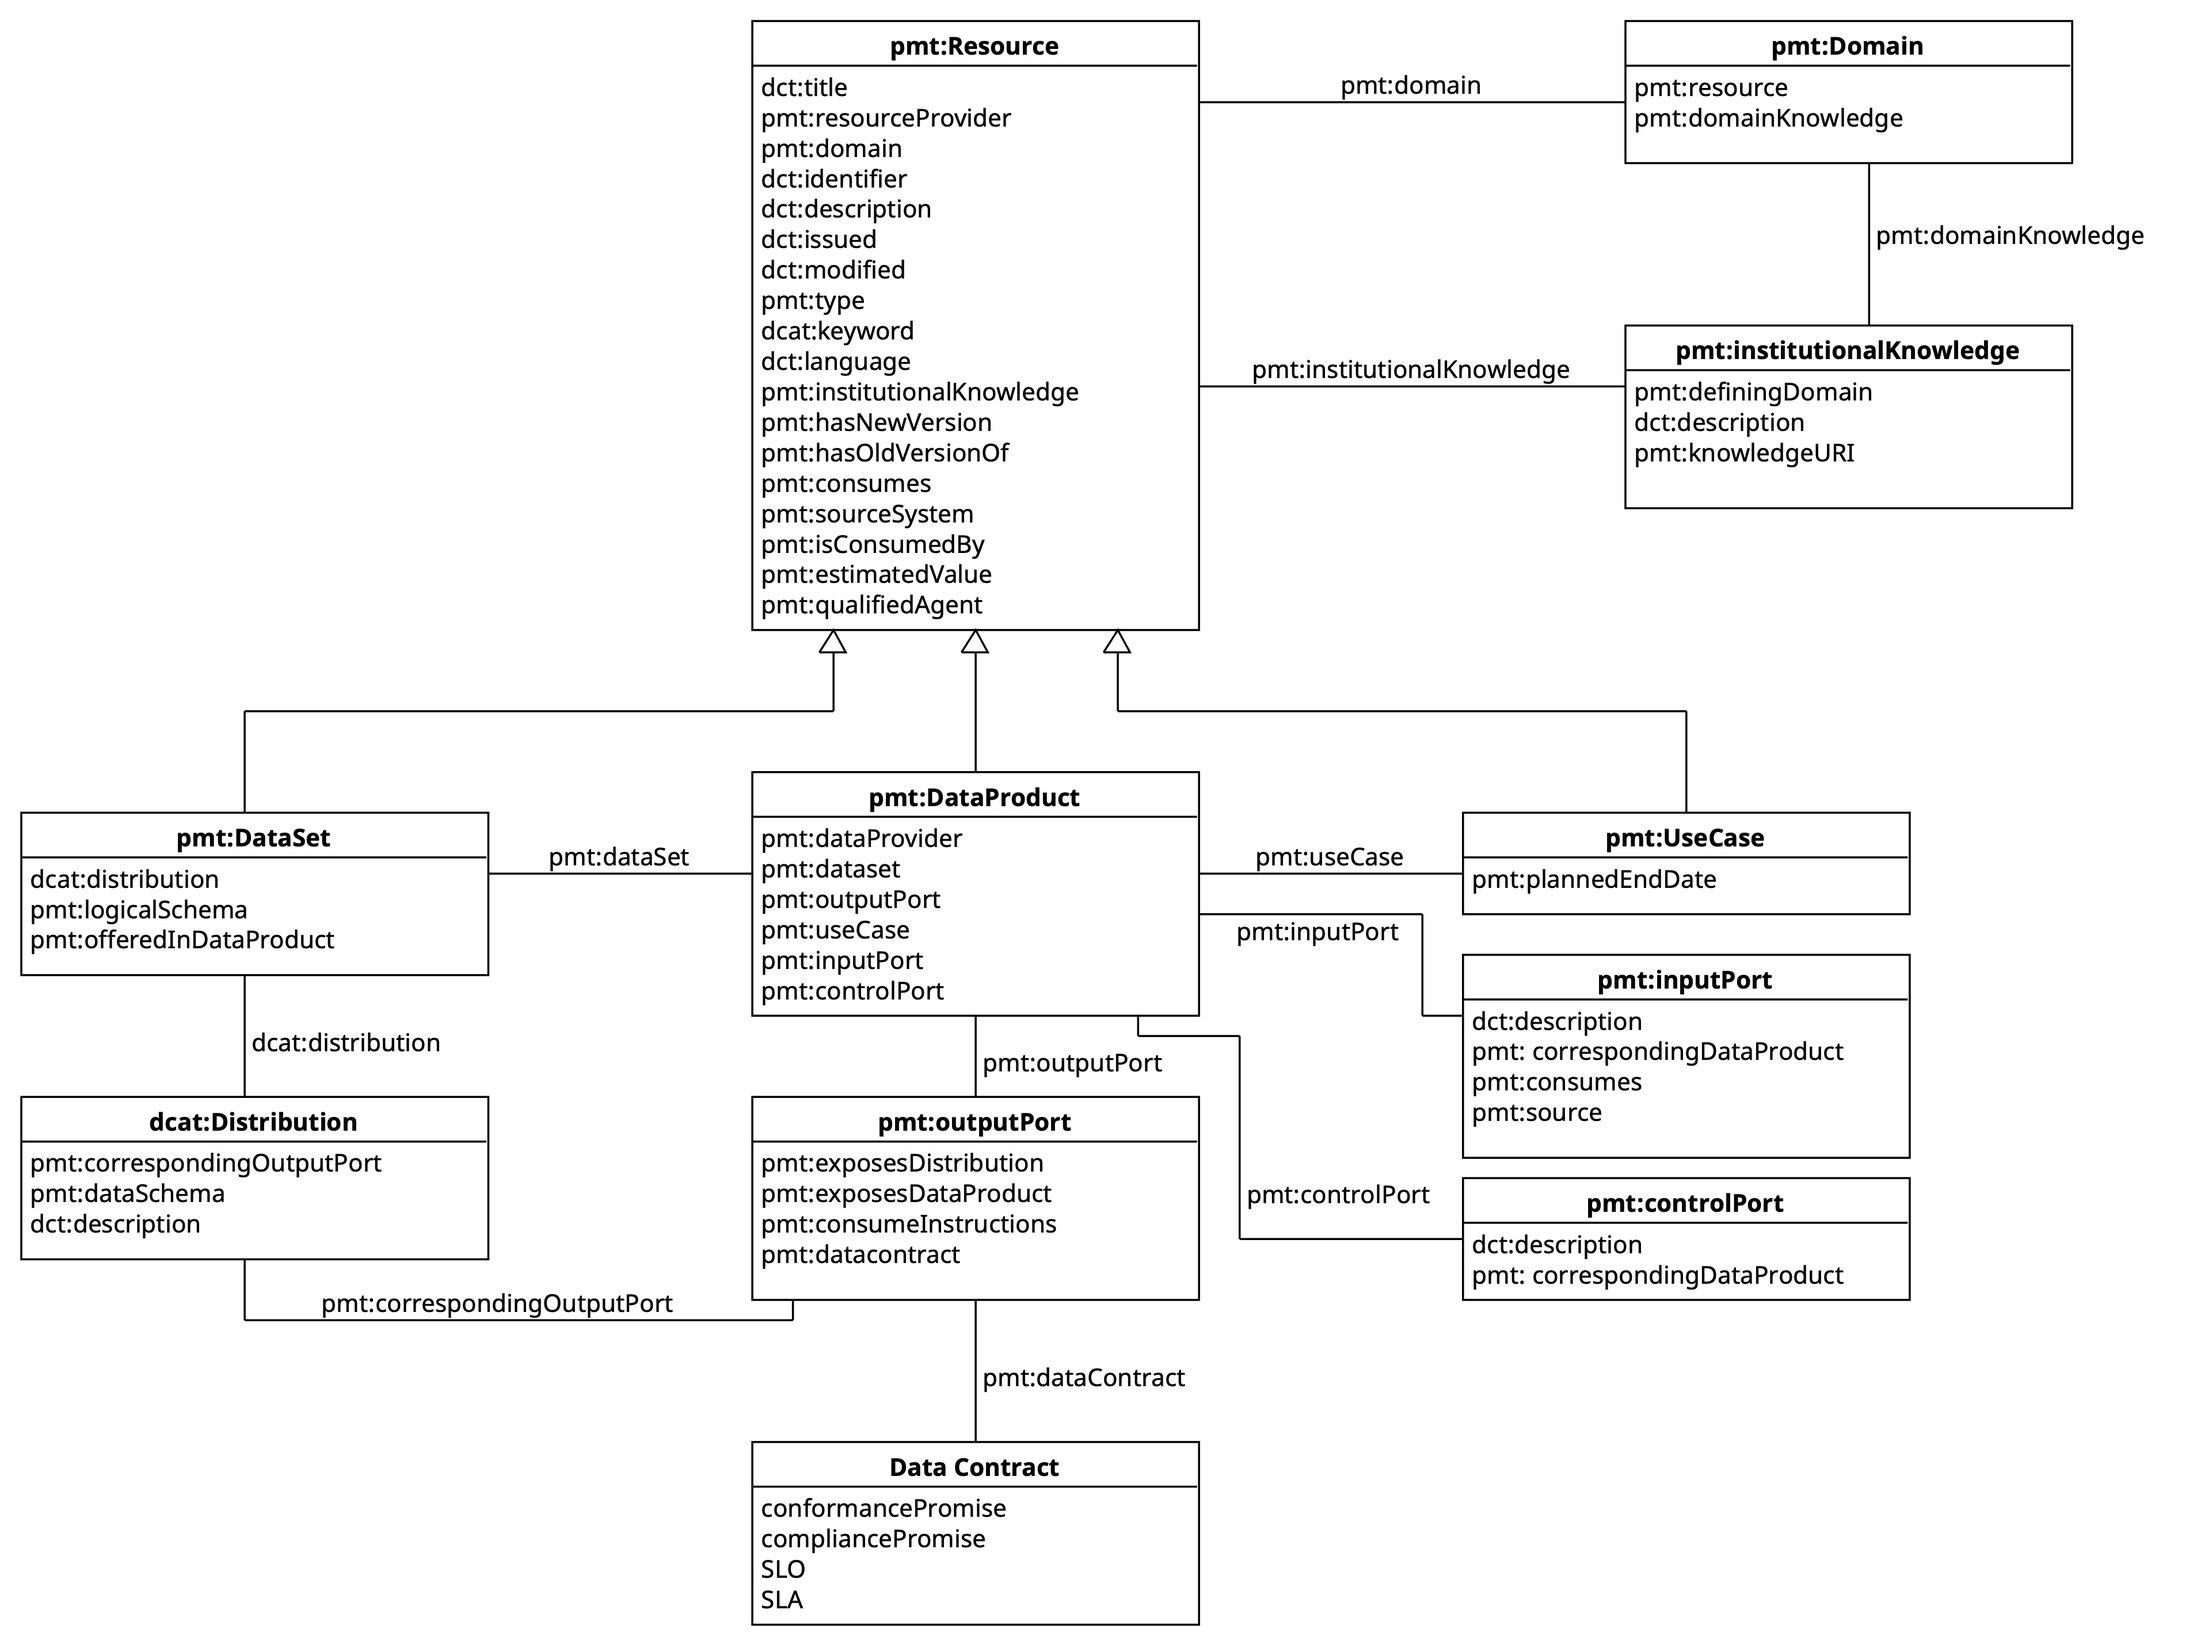
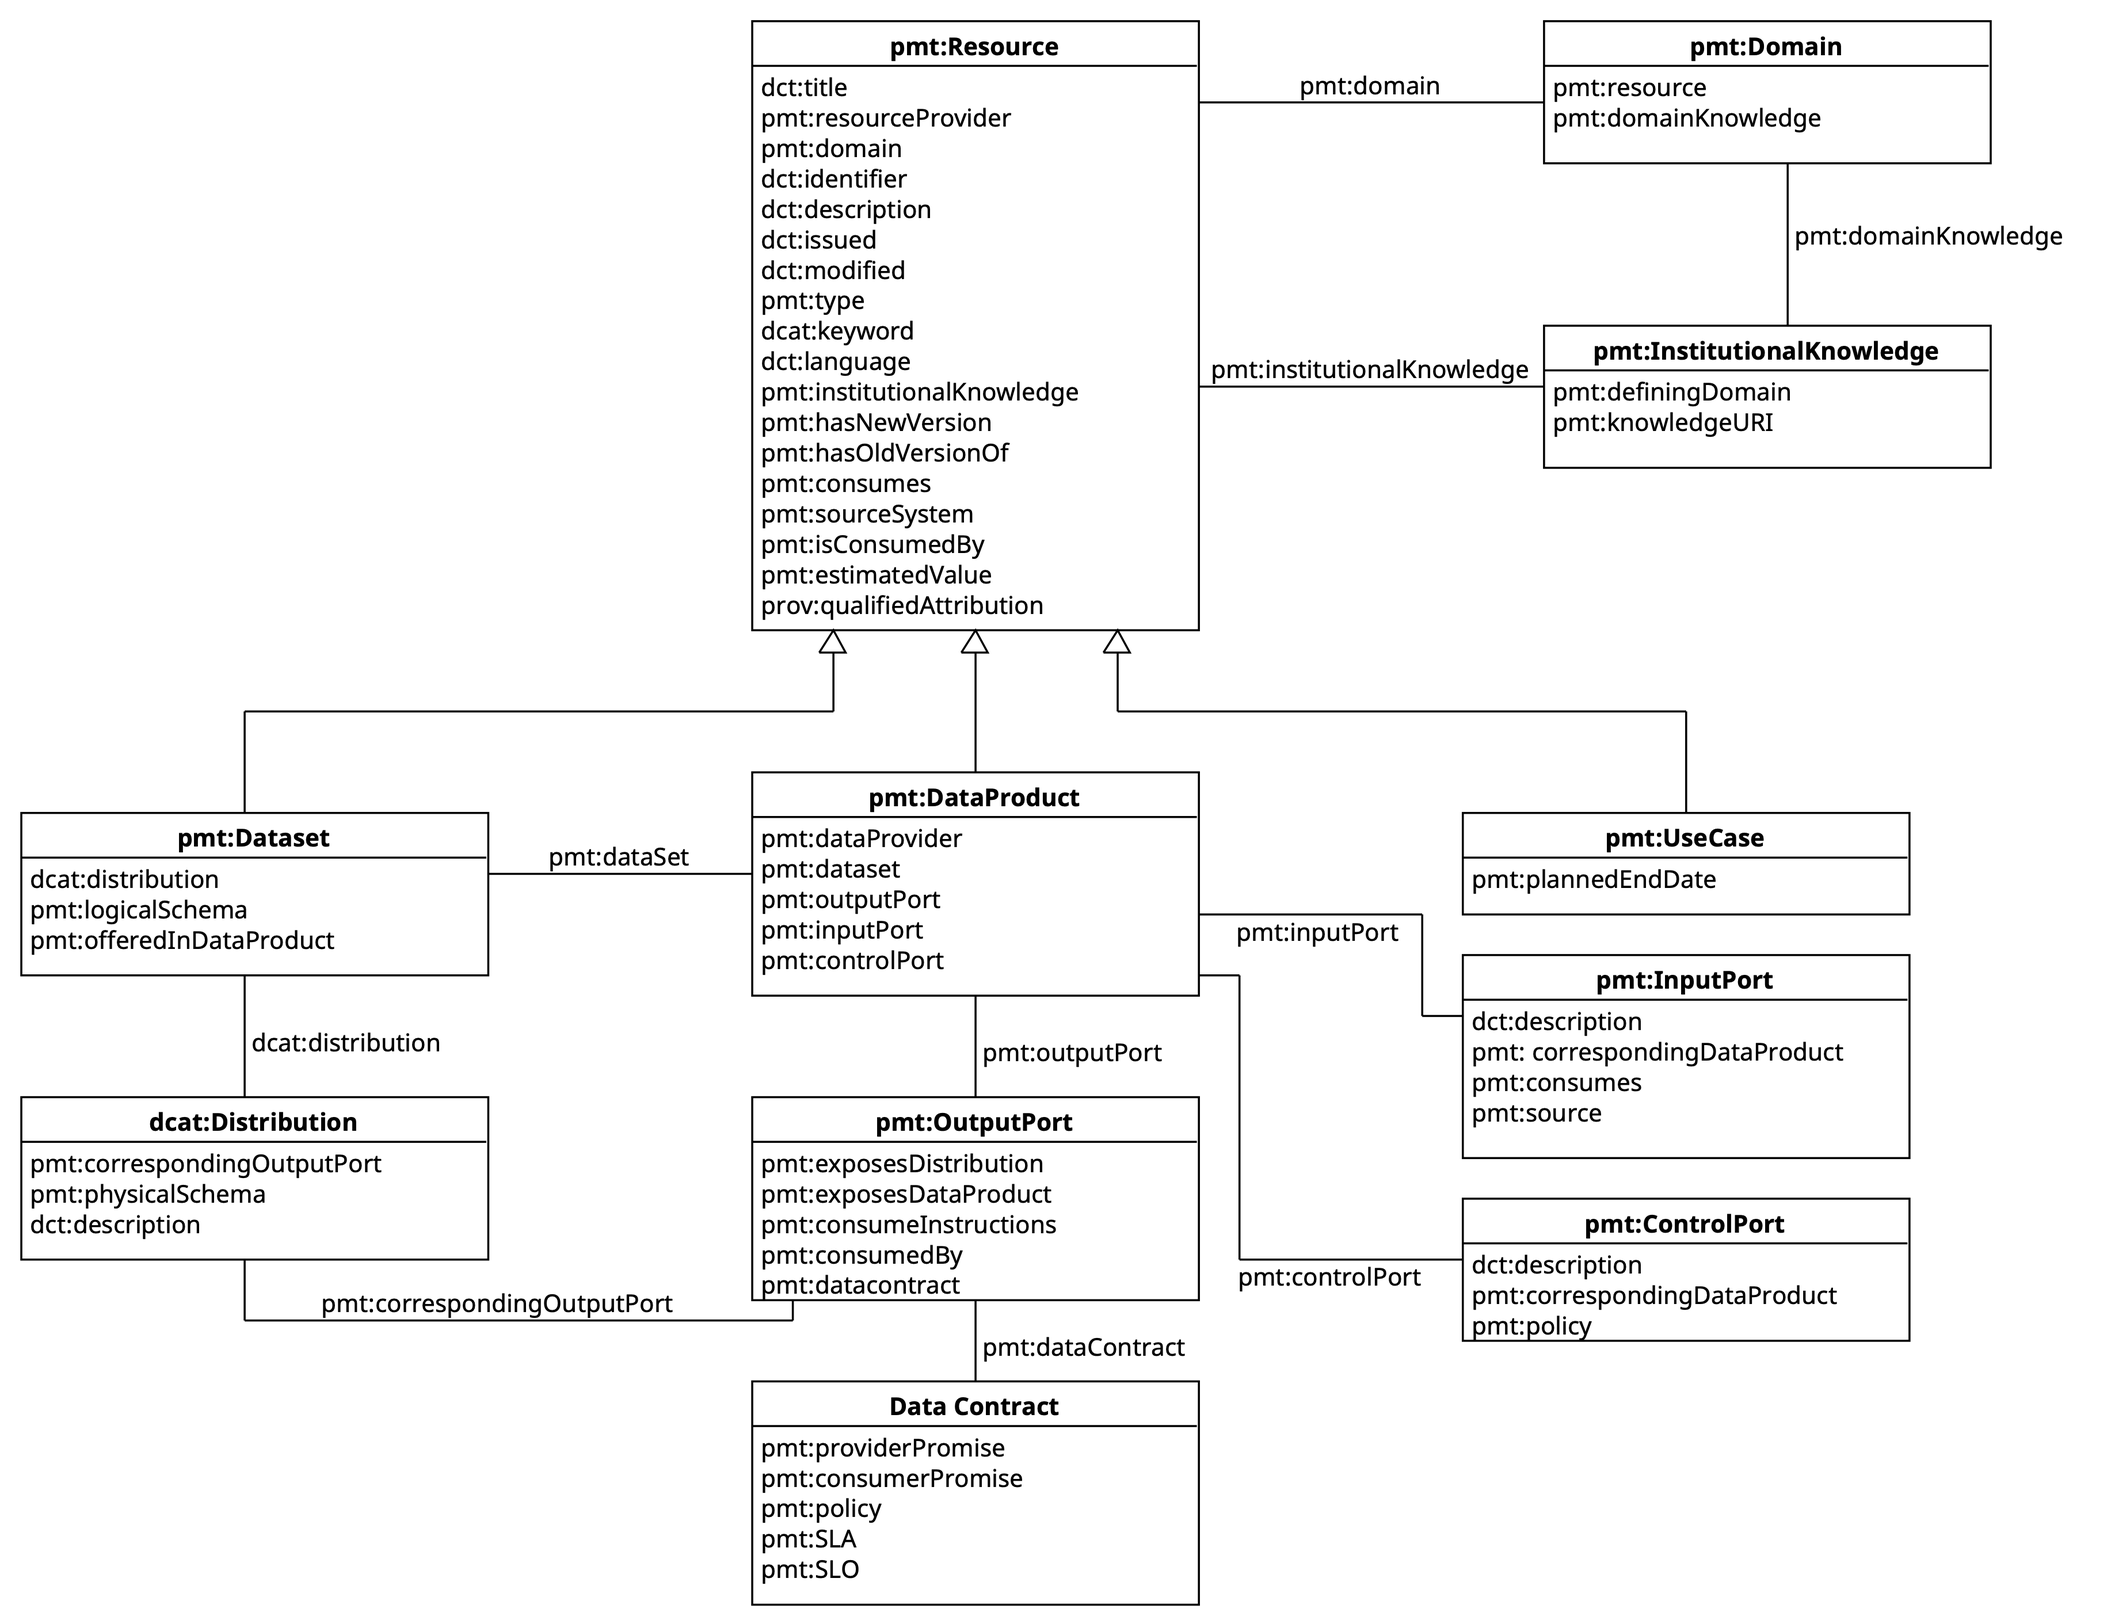
Updated physical schema

diff --git a/ProMoTe.md b/ProMoTe.md
@@ -875,7 +875,7 @@ The following properties are inherited from the super-class [dcat:Dataset](http:
 </table>
   
 ### Class Distribution
-The following properties are specific to this class: [output port](#distribution-property-output-port), [technical schema](#property-technical-schema)
+The following properties are specific to this class: [output port](#distribution-property-output-port), [physical schema](#property-physical-schema)
 
 Distributions SHOULD be extended with a <a href="#distribution-property-description">dct:description</a>.
 
@@ -927,22 +927,22 @@ Distributions SHOULD be extended with a <a href="#distribution-property-descript
 </tbody>
 </table>
   
-  #### Property: Technical Schema
+  #### Property: Physical Schema
   <table>
     <thead>
     <tr>
     <th width="240px"><strong>Property:</strong></th>
-    <th width="760px"><span style="font-weight:normal"><a href="#property-technical-schema">pmt:technicalSchema</a></span></th>
+    <th width="760px"><span style="font-weight:normal"><a href="#property-physical-schema">pmt:physicalSchema</a></span></th>
     </tr>
     </thead>
     <tbody>
     <tr>
     <td>Definition:</td>
-    <td>A description of the data structure and internal relations at the distribution-level.</td>
+    <td>A description of the implementation of the data structure at the distribution-level.</td>
     </tr>
     <tr>
       <td>Usage Note:</td>
-      <td>Technical schemas describe the structure of data of a specific distribution of a [pmt:Dataset](#class-dataset). Structural descriptions that hold true across all distributions of a dataset are described in [pmt:logicalSchema](#dataset-property-logical-schema)</td>
+      <td>Physical schemas describe the structure of data of a specific distribution of a [pmt:Dataset](#class-dataset) that lives in a specific IT infrastructure component. Structural descriptions that hold true across all distributions of a dataset are described in [pmt:logicalSchema](#dataset-property-logical-schema)</td>
     </tr>
     </tbody>
   </table>
